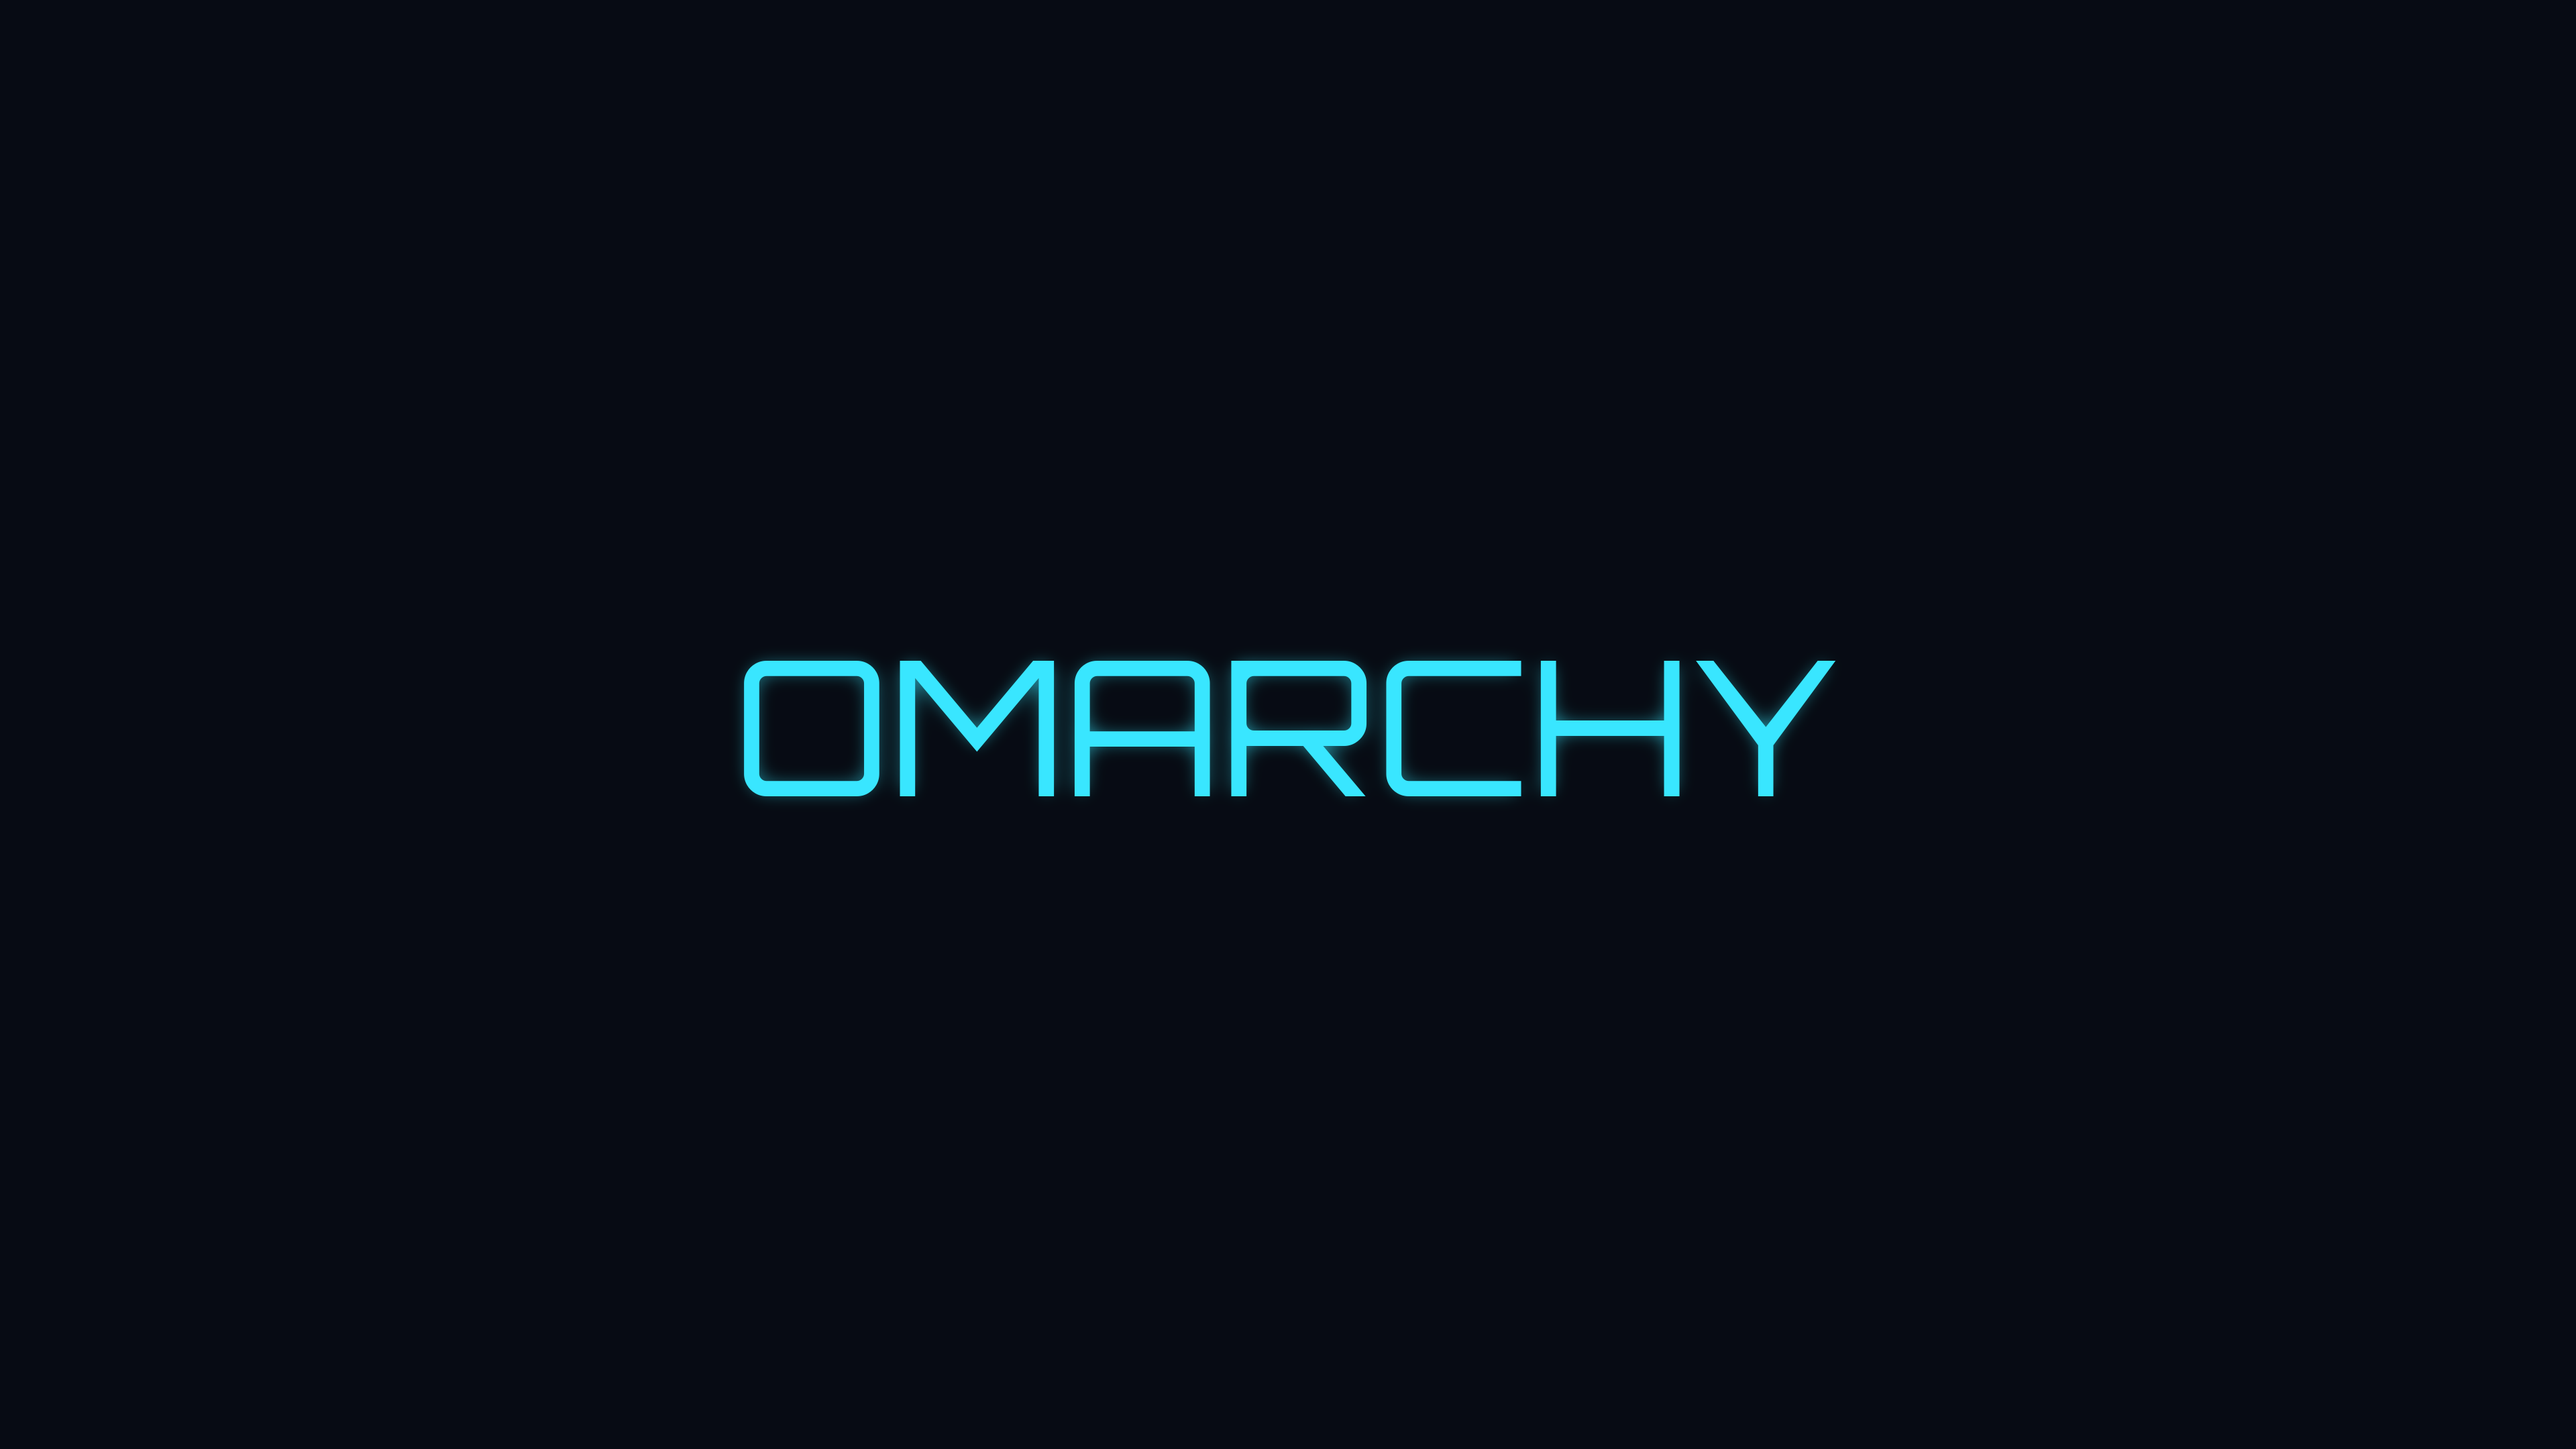
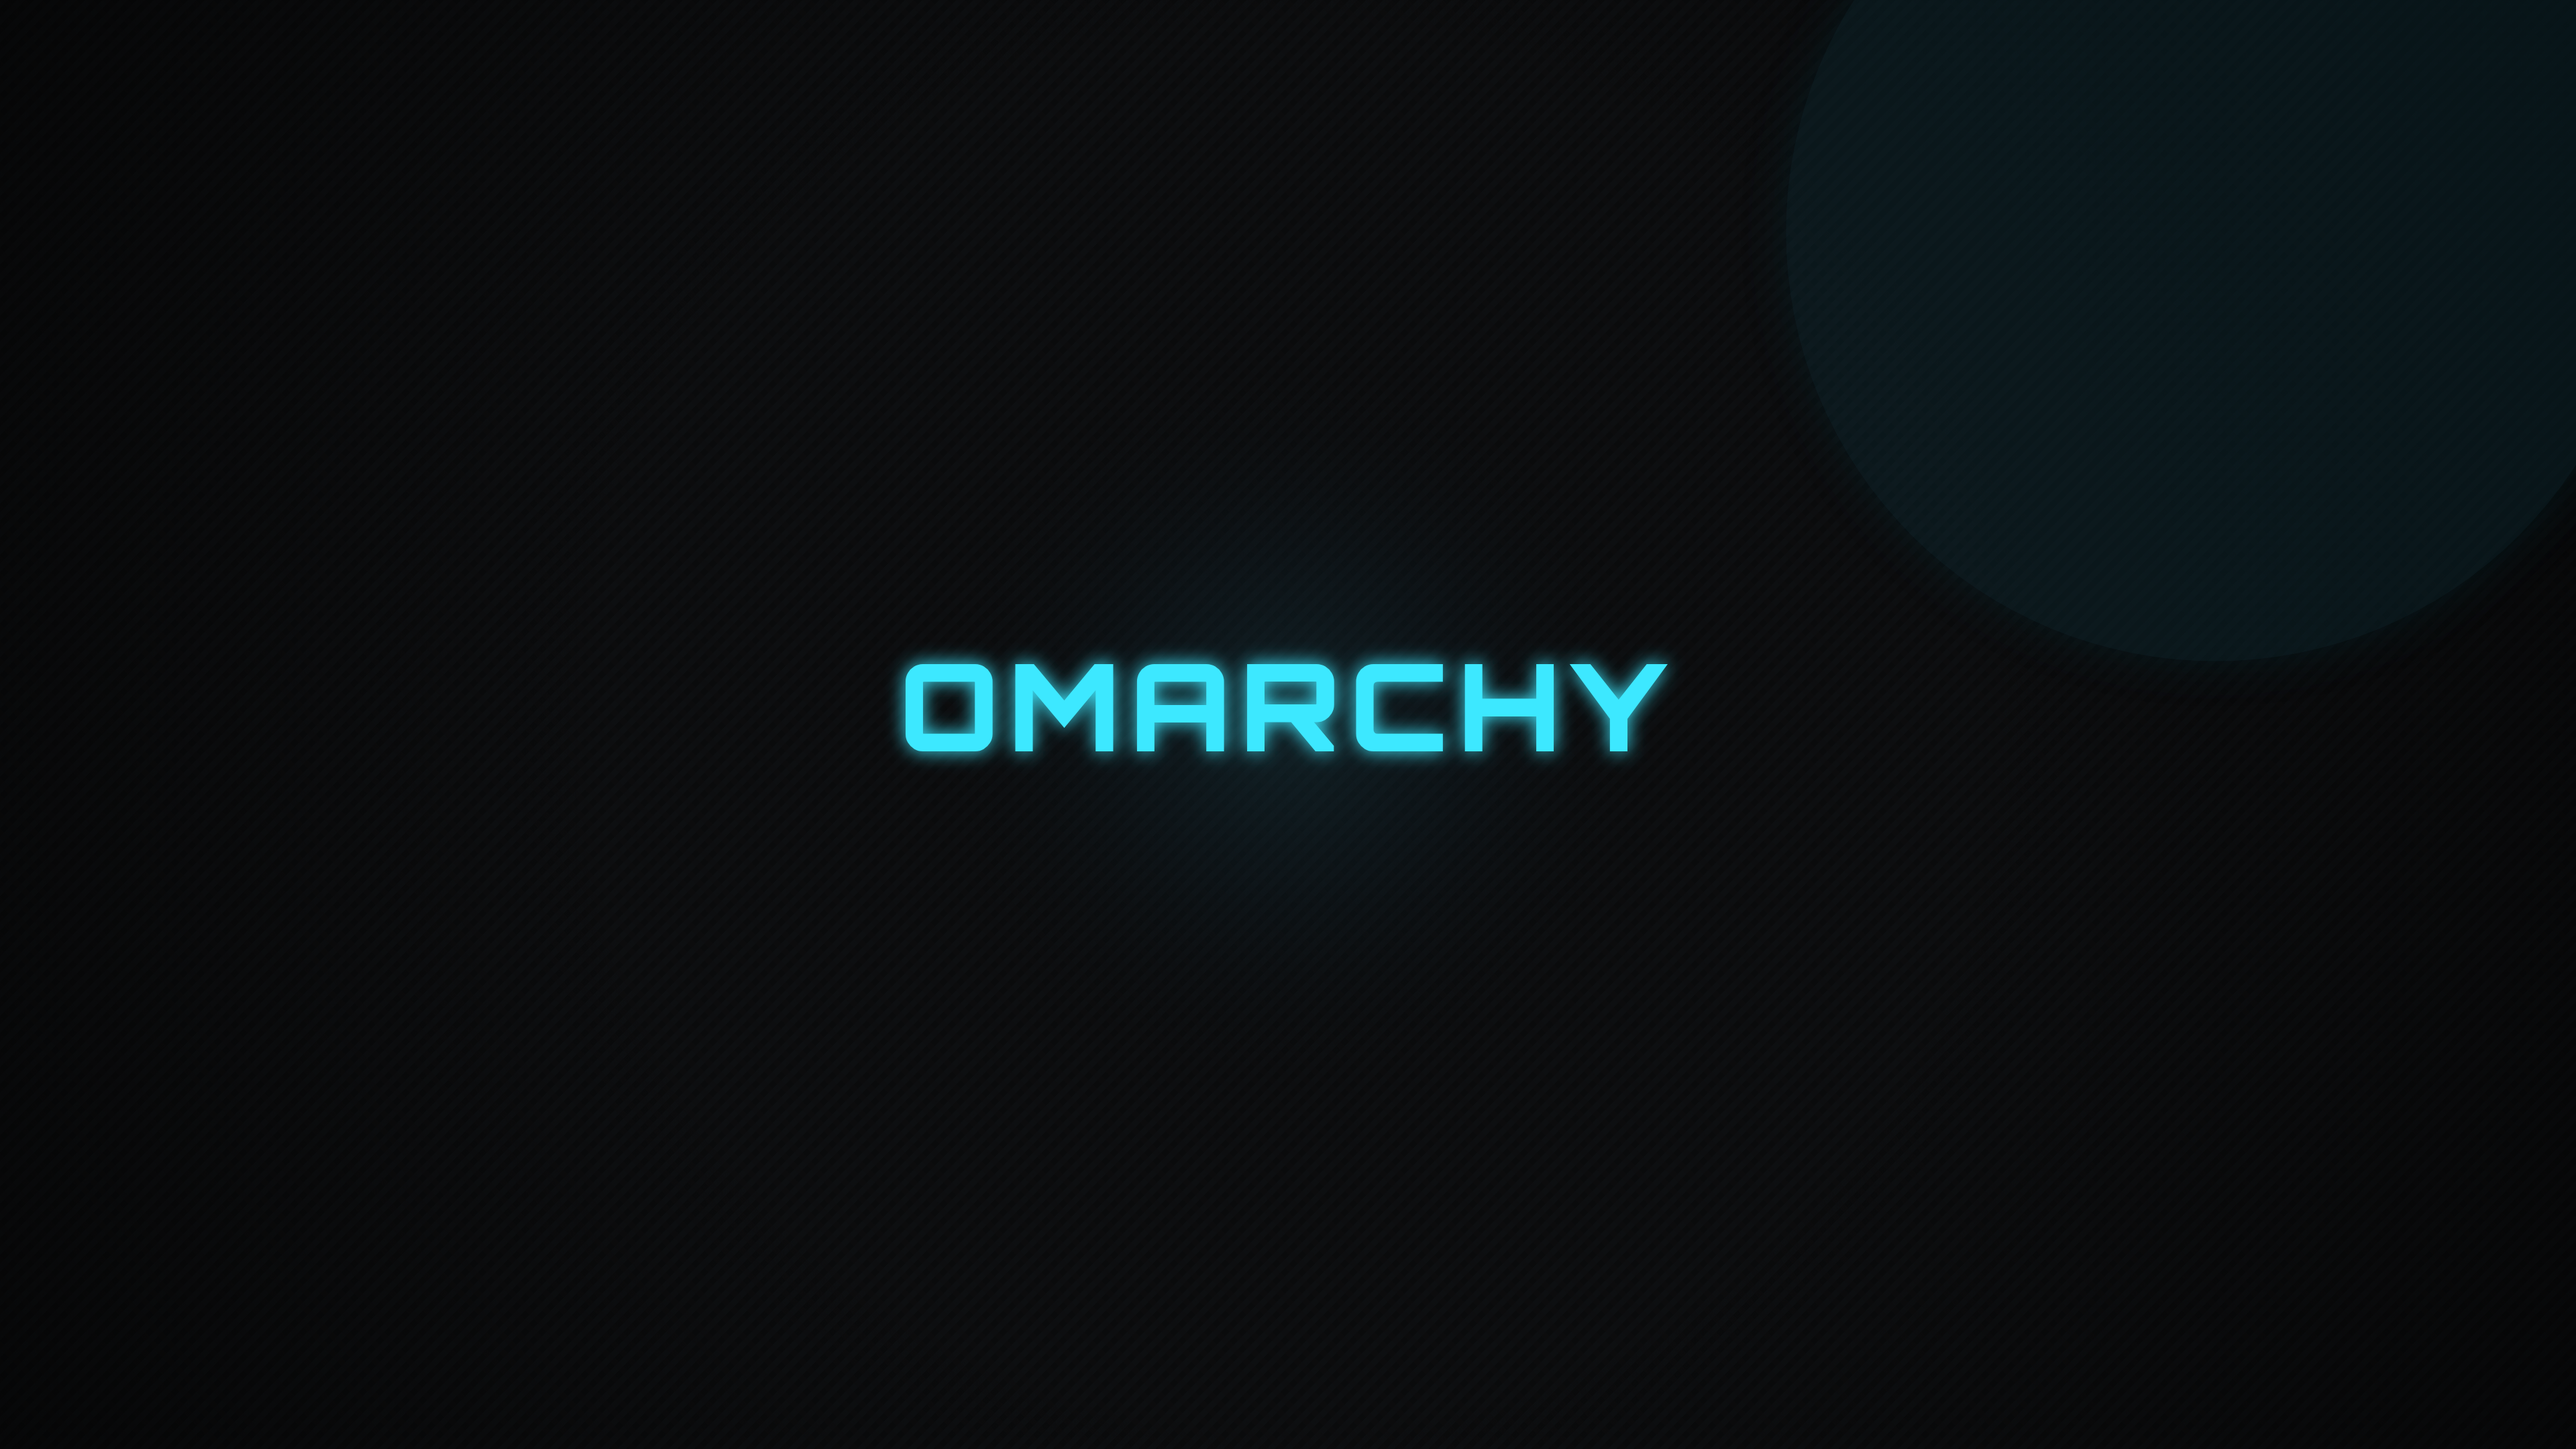
feat: update theme

Changed region(s): [[0.2812, 0.4343, 0.7188, 0.5583]]

diff --git a/README.md b/README.md
@@ -1,10 +1,13 @@
 # Sword Art Omarchy
 
-An [Omarchy](https://omarchy.org/) theme inspired by Sword Art Online's
-holographic "Link Start" menu UI — near-black navy backgrounds with a bright
-cyan-blue accent, the way the game's system windows glow against the dark.
+An [Omarchy](https://omarchy.org/) theme inspired by Season 1 of Sword Art
+Online — the black leather-and-steel look of Aincrad's system windows:
+carbon-black backgrounds textured like a woven coat, with the bright
+cyan-blue "Link Start" glow burning through the dark.
 
-![preview](preview.png)
+|                          |                          |
+|--------------------------|--------------------------|
+| ![desktop](preview.png)  | ![lock screen](preview-unlock.png) |
 
 ## Install
 
@@ -17,10 +20,10 @@ omarchy theme set "Sword Art Omarchy"
 
 | | |
 |---|---|
-| Background | `#070b14` |
-| Panel | `#101a2c` |
-| Accent (cyan) | `#39e6ff` |
-| Foreground | `#eaf6ff` |
+| Background | `#08090a` |
+| Panel | `#16181b` |
+| Accent (cyan) | `#3ee8ff` |
+| Foreground | `#e9f2f5` |
 | HP (red) | `#ff3b5c` |
 | MP (blue) | `#4f8dff` |
 
@@ -28,9 +31,41 @@ Icons: `Yaru-blue-dark`.
 
 ## Backgrounds
 
-- `1-link-start.png` — the ring-burst "Link Start" login moment
-- `2-hud-grid.png` — a calmer daily-driver wallpaper with a faint hex-grid HUD
-- `3-status-panel.png` — inventory/menu-panel composition with HP/MP bars
+Three 4K wallpapers — carbon-fiber texture only, no HUD elements, no
+text. Just the material and a hint of ambient light, so icons and
+windows stay legible on top.
+
+<table>
+<tr>
+<td width="33%">
+
+![ember](backgrounds/1-ember.png)
+**`1-ember.png`**
+A quiet cyan glow low in the corner.
+
+</td>
+<td width="33%">
+
+![horizon](backgrounds/2-horizon.png)
+**`2-horizon.png`**
+The same glow, opposite corner.
+
+</td>
+<td width="33%">
+
+![void](backgrounds/3-void.png)
+**`3-void.png`**
+No glow at all — pure carbon.
+
+</td>
+</tr>
+</table>
+
+`backgrounds/omarchy.png` is the wordmark wallpaper used by the theme
+switcher, and `unlock.png` is the small logo mark shown on the lock
+screen — both share the same carbon/cyan treatment.
+
+![omarchy wordmark](backgrounds/omarchy.png)
 
 All backgrounds and UI marks are original, generated artwork — no frames or
 art from the anime were used.
